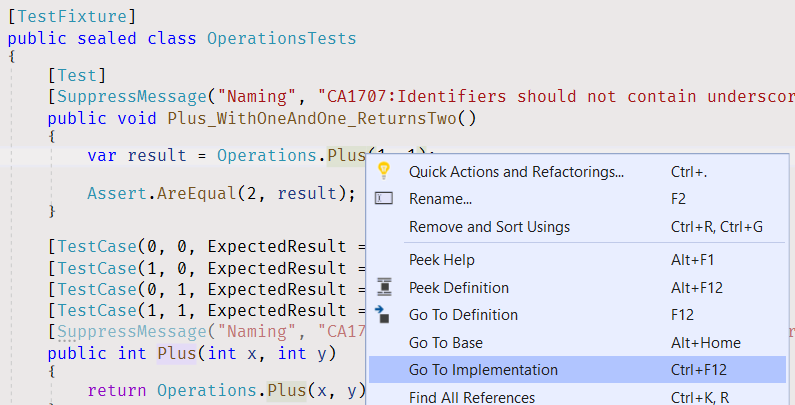
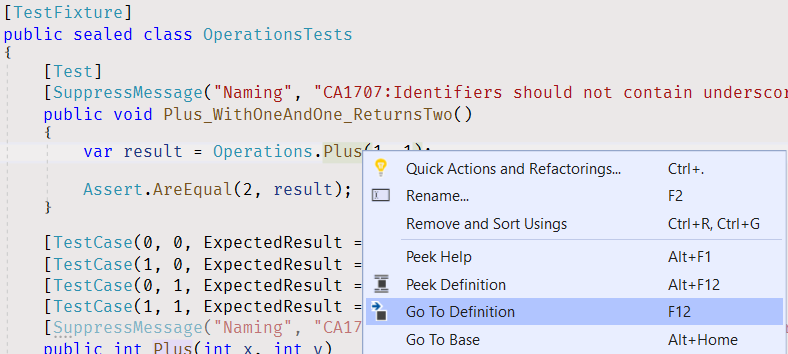
Add images.

diff --git a/FancyCalc/Operations.cs b/FancyCalc/Operations.cs
@@ -14,7 +14,7 @@ namespace FancyCalc
         public static int Minus(int x, int y)
         {
             // TODO #2. Replace "x + y - x" in the next line with "x - y".
-            return x + y - x;
+            return x + y;
         }
 
         public static int Multiply(int x, int y)

diff --git a/README-RU.md b/README-RU.md
@@ -34,7 +34,7 @@
 
 5. Перейдите к коду "Operations.Plus" метода.
     * Нажмите правой кнопкой мыши на имя метода "Plus" на 13 строке и нажмите на элементе меню "Go to Implementation".
-    * Или кликните на имени метода "Plus" на 13 строке и используйте сочетание клавиш _Ctrl+F12_.
+    * Или кликните на имени метода "Plus" на 13 строке и используйте сочетание клавиш _F12_.
     * Или кликните на имени метода "Plus" на 13 строке, зажав клавишу _Ctrl_.
 
 ![Navigate to Method](images/navigate-to-method.png)

diff --git a/README.md b/README.md
@@ -34,7 +34,7 @@ This is a beginner level task for practicing AutoCode tasks management. Translat
 
 5. Navigate to "Operations.Plus" method code.
     * Right click on the method name "Plus" in line 13, and click on "Go to Implementation" menu item.
-    * Or click on the method name "Plus" in line 13, and use the default shortcut _Ctrl+F12_.
+    * Or click on the method name "Plus" in line 13, and use the default shortcut _F12_.
     * Or click on the method name "Plus" in line 13 pressing the _Ctrl_ key.
 
 ![Navigate to Method](images/navigate-to-method.png)
